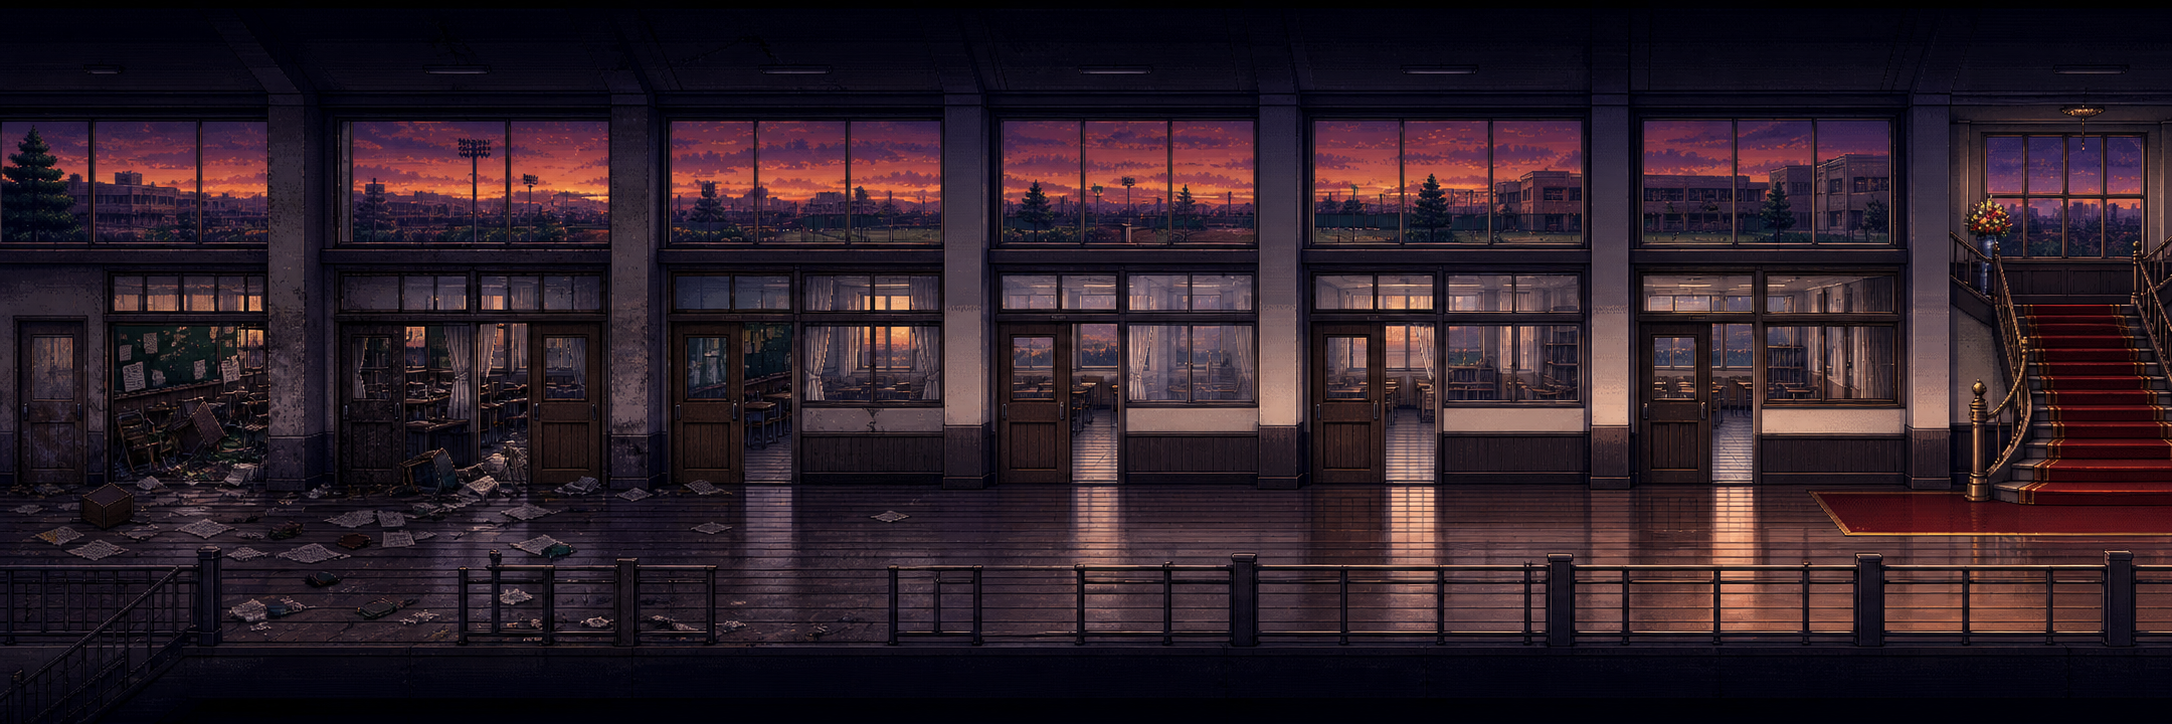
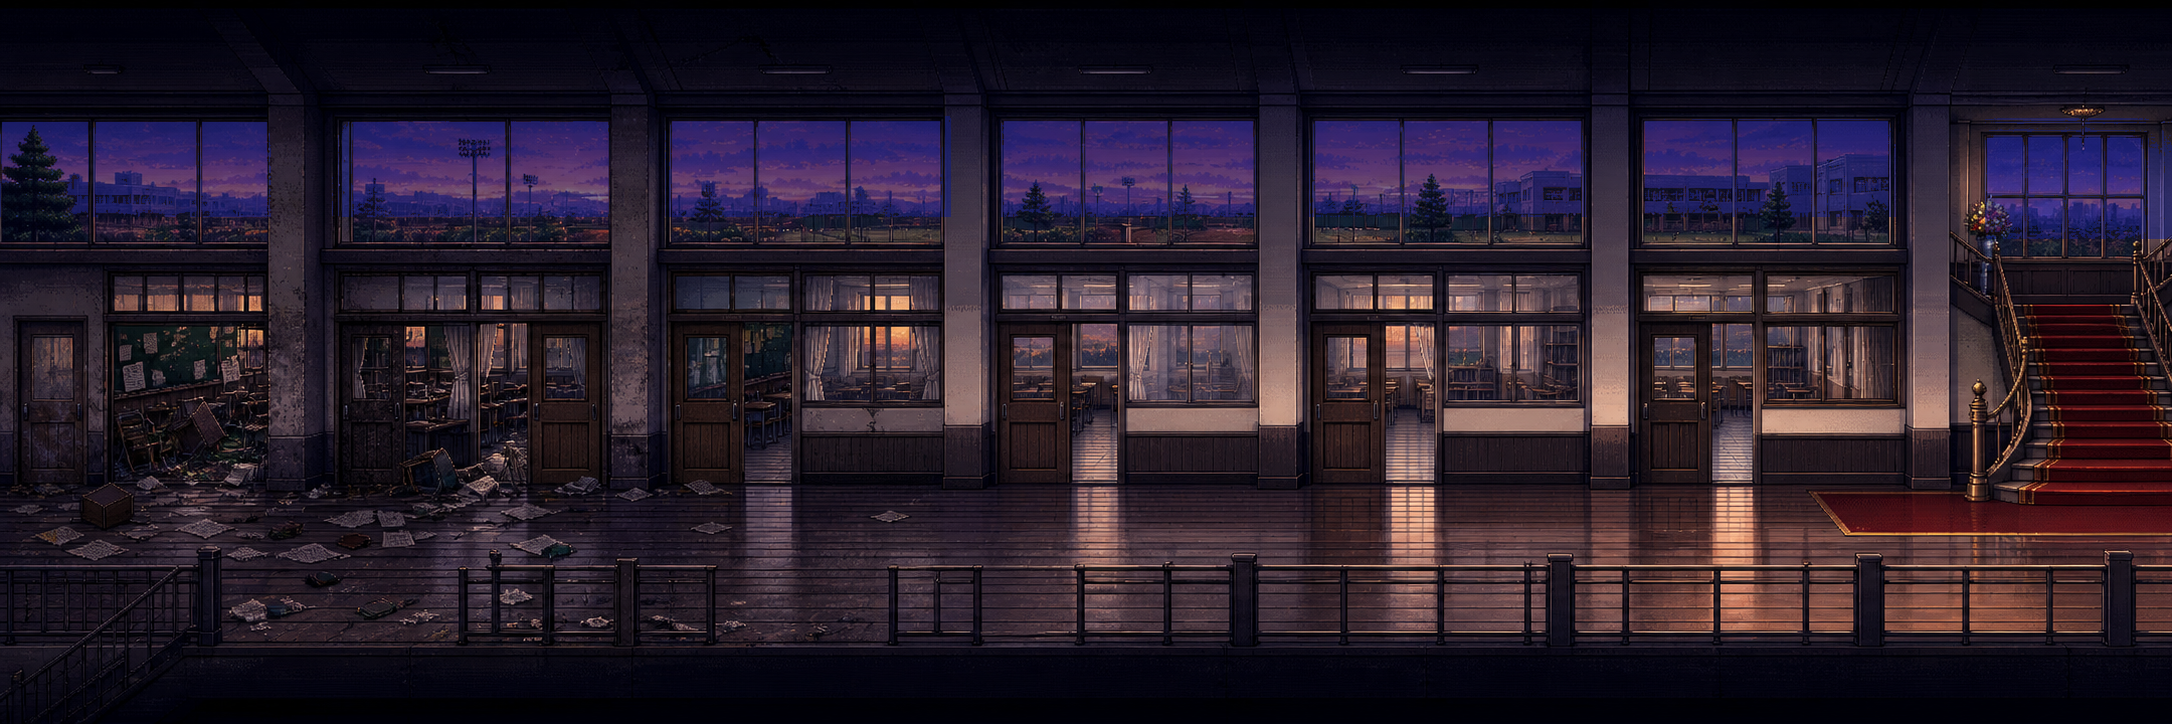
Refine stage two boss and background

Changed region(s): [[0.1542, 0.1519, 1.0, 0.3343], [0.0, 0.1519, 0.1234, 0.3039]]

diff --git a/game.js b/game.js
@@ -80,6 +80,7 @@
   const CHARGE_SECONDS = CONFIG.player.dash.chargeSeconds;
   const PLAYER_SPEED = CONFIG.player.moveSpeed;
   const DASH_SPEED = PLAYER_SPEED * CONFIG.player.dash.speedMultiplier;
+  const DASH_RETURN_SPEED = PLAYER_SPEED * CONFIG.player.dash.returnSpeedMultiplier;
   const DASH_DAMAGE = CONFIG.player.dash.damage;
   const DASH_COOLDOWN_SECONDS = CONFIG.player.dash.cooldownSeconds;
   const DRONE_LOOP_BASE_VOLUME = 0.026;
@@ -130,6 +131,8 @@
   const HUMANOID_CENTER_Y = Math.round((HUMANOID_MIN_Y + HUMANOID_MAX_Y) / 2);
   const STAGE_TWO_GROUND_MIN_Y = Math.round(HEIGHT * 0.76);
   const STAGE_TWO_GROUND_MAX_Y = Math.round(HEIGHT * 0.9);
+  const STAGE_TWO_UPPER_LANE_MIN_Y = Math.round(HEIGHT * 0.54);
+  const STAGE_TWO_UPPER_LANE_MAX_Y = Math.round(HEIGHT * 0.66);
   const BOSS_MIN_Y = HUMANOID_MIN_Y - BOSS_SPRITE_FOOT_OFFSET_Y;
   const BOSS_MAX_Y = HUMANOID_MAX_Y - BOSS_SPRITE_FOOT_OFFSET_Y;
   const BOSS_CENTER_Y = Math.round((BOSS_MIN_Y + BOSS_MAX_Y) / 2);
@@ -214,10 +217,11 @@
     boss: 1,
   };
   const BACKGROUND_PARALLAX_LAYERS = [
-    { top: 0, bottom: 0.58, strength: 0 },
+    { top: 0, bottom: 0.58, strength: 0.08 },
     { top: 0.34, bottom: 0.82, strength: 0.08 },
     { top: 0.72, bottom: 1, strength: 0.16 },
   ];
+  const STAGE_TWO_BACKGROUND_Y_OFFSET = Math.round(HEIGHT * 0.05);
   const START_PHASES = new Set([
     "wave1",
     "midBossDialogue",
@@ -373,7 +377,7 @@
     state.mode = "dialogue";
     const dialogueKey = getDialogueKey(kind);
     const bossPortrait = kind === "boss" || kind === "bossDefeated";
-    enemyPortrait.src = state.stage === 2
+    const portraitSrc = state.stage === 2
       ? kind === "midBoss"
         ? "assets/dialogue-ritsuko-midboss.png"
         : kind === "bossDefeated"
@@ -382,7 +386,8 @@
       : kind === "bossDefeated"
         ? "assets/dialogue-tsubame-defeated.png"
         : bossPortrait ? "assets/dialogue-tsubame-boss.png" : "assets/dialogue-tsubame-midboss.png";
-    enemyPortrait.alt = state.stage === 2 ? (bossPortrait ? "一文字 小夜" : "鬼塚 律子") : "朝比奈 つばめ";
+    const portraitAlt = state.stage === 2 ? (bossPortrait ? "一文字 小夜" : "鬼塚 律子") : "朝比奈 つばめ";
+    setEnemyPortrait(portraitSrc, portraitAlt);
     state.dialogueAutoSeconds = kind === "midBoss" ? MID_BOSS_DIALOGUE_AUTO_SECONDS : DIALOGUE_AUTO_SECONDS;
     state.dialogue = dialogues[dialogueKey].map((entry) => ({ ...entry, nextPhase }));
     state.dialogueIndex = 0;
@@ -397,6 +402,21 @@
       return `stage2${kind === "boss" ? "Boss" : "MidBoss"}`;
     }
     return kind;
+  }
+
+  function setEnemyPortrait(src, alt) {
+    enemyPortrait.alt = alt;
+    if (enemyPortrait.dataset.currentSrc === src) {
+      enemyPortrait.style.opacity = "1";
+      return;
+    }
+    enemyPortrait.dataset.currentSrc = src;
+    enemyPortrait.style.opacity = "0";
+    enemyPortrait.onload = () => {
+      enemyPortrait.style.opacity = "1";
+    };
+    enemyPortrait.src = src;
+    if (enemyPortrait.complete && enemyPortrait.naturalWidth > 0) enemyPortrait.style.opacity = "1";
   }
 
   function startBossDefeatedDialogue() {
@@ -523,6 +543,7 @@
       state.boss.dashState = "idle";
       state.boss.dashTrace = null;
       state.boss.idleShotTimer = CONFIG.bosses.sayo.idleShotIntervalSeconds;
+      state.boss.sayoDashCount = 0;
       state.message = "ボス 一文字小夜";
     } else {
       state.boss = null;
@@ -598,6 +619,35 @@
         : 0,
     });
     if (enemyType === "cleaningRobot") playShotSound("robotSpin");
+    state.nextEnemyId += 1;
+    if (state.stage === 2 && state.phase === "wave2" && enemyType === "disciplineRobot") {
+      spawnStageTwoUpperDisciplineRobot(spawnIndex);
+    }
+  }
+
+  function spawnStageTwoUpperDisciplineRobot(spawnIndex) {
+    const enemyType = "disciplineRobot";
+    const enemyConfig = ENEMY_SPRITE_CONFIG[enemyType];
+    const gameplay = getEnemyGameplay(enemyType);
+    const y = randomBetween(STAGE_TWO_UPPER_LANE_MIN_Y, STAGE_TWO_UPPER_LANE_MAX_Y);
+    state.enemies.push({
+      id: state.nextEnemyId,
+      x: WIDTH + 28,
+      y,
+      vx: getEnemySpawnSpeed(enemyType),
+      r: enemyConfig.radius,
+      hp: gameplay.hp,
+      fireTimer: getEnemyFirstShotTimer(gameplay),
+      type: enemyType,
+      wave: state.phase,
+      spawnIndex,
+      usedSpecial: false,
+      chargeState: "idle",
+      windupTime: 0,
+      groundY: y,
+      zigzagDirection: Math.random() < 0.5 ? -1 : 1,
+      motionTime: Math.random() * gameplay.jumpSeconds,
+    });
     state.nextEnemyId += 1;
   }
 
@@ -947,7 +997,7 @@
       const dx = player.dashOrigin.x - player.x;
       const dy = player.dashOrigin.y - player.y;
       const len = Math.hypot(dx, dy);
-      if (len <= PLAYER_SPEED * dt) {
+      if (len <= DASH_RETURN_SPEED * dt) {
         player.x = player.dashOrigin.x;
         player.y = player.dashOrigin.y;
         player.dashState = "none";
@@ -956,8 +1006,8 @@
         player.trail = [];
         return;
       }
-      player.x += (dx / len) * PLAYER_SPEED * dt;
-      player.y += (dy / len) * PLAYER_SPEED * dt;
+      player.x += (dx / len) * DASH_RETURN_SPEED * dt;
+      player.y += (dy / len) * DASH_RETURN_SPEED * dt;
     }
 
     for (const trail of player.trail) trail.life -= dt;
@@ -1345,7 +1395,9 @@
   }
 
   function updateSayoAttack(boss, dt) {
+    const wasChanged = boss.changed;
     boss.changed = boss.hp <= STAGE_TWO_PLAN.bossPhaseTarget;
+    if (boss.changed && !wasChanged) state.message = "小夜の攻撃が激しくなった！";
     if (!boss.changed) {
       boss.invincible = false;
       if (boss.fireTimer > 0) return;
@@ -1400,6 +1452,7 @@
     boss.dashState = "telegraph";
     boss.dashTelegraphTimer = CONFIG.bosses.sayo.dashTelegraphSeconds;
     boss.dashTraceTimer = 0;
+    boss.sayoDashCount = (boss.sayoDashCount || 0) + 1;
     boss.dashTrace = createSayoDashTrace(boss);
     boss.invincible = true;
     playShotSound("sayoDashClang");
@@ -1407,12 +1460,21 @@
 
   function createSayoDashTrace(boss) {
     const padding = CONFIG.bosses.sayo.dashTargetPadding;
-    const points = [
+    const targetSegments = Math.min(8, 2 + (boss.sayoDashCount || 1) * 2);
+    const routePoints = [
       { x: boss.x, y: boss.y },
-      { x: 0, y: HEIGHT * 0.5 },
+      getSayoDashLeftEdgeTarget(boss),
       { x: randomBetween(padding, WIDTH - padding), y: 0 },
       { x: randomBetween(padding, WIDTH - padding), y: HEIGHT },
+      { x: WIDTH, y: randomBetween(padding, HEIGHT - padding) },
+      { x: randomBetween(padding, WIDTH - padding), y: 0 },
+      { x: 0, y: randomBetween(padding, HEIGHT - padding) },
+      { x: randomBetween(padding, WIDTH - padding), y: HEIGHT },
       { x: boss.x, y: boss.y },
+    ];
+    const points = [
+      ...routePoints.slice(0, targetSegments),
+      routePoints[routePoints.length - 1],
     ];
     const lengths = [];
     let totalLength = 0;
@@ -1422,6 +1484,16 @@
       totalLength += length;
     }
     return { points, lengths, totalLength };
+  }
+
+  function getSayoDashLeftEdgeTarget(boss) {
+    const dx = state.player.x - boss.x;
+    if (Math.abs(dx) < 0.001) return { x: 0, y: clamp(state.player.y, 0, HEIGHT) };
+    const ratio = -boss.x / dx;
+    return {
+      x: 0,
+      y: clamp(boss.y + (state.player.y - boss.y) * ratio, 0, HEIGHT),
+    };
   }
 
   function getPointOnSayoDashTrace(trace, progress) {
@@ -1667,6 +1739,8 @@
     const sourceHeight = stageTwoBackground.naturalHeight;
     const sourceWidth = Math.min(stageTwoBackground.naturalWidth, sourceHeight * (WIDTH / HEIGHT));
     const stop = getStageTwoProgress();
+    ctx.fillStyle = "#070916";
+    pixelRect(0, 0, WIDTH, HEIGHT);
     for (const layer of BACKGROUND_PARALLAX_LAYERS) {
       drawStageTwoBackgroundLayer(sourceWidth, stop, layer);
     }
@@ -1677,8 +1751,8 @@
     const sourceTop = Math.round(sourceHeight * layer.top);
     const sourceBottom = Math.round(sourceHeight * layer.bottom);
     const sourceLayerHeight = Math.max(1, sourceBottom - sourceTop);
-    const destTop = Math.round(HEIGHT * layer.top);
-    const destBottom = Math.round(HEIGHT * layer.bottom);
+    const destTop = Math.round(HEIGHT * layer.top) + STAGE_TWO_BACKGROUND_Y_OFFSET;
+    const destBottom = Math.round(HEIGHT * layer.bottom) + STAGE_TWO_BACKGROUND_Y_OFFSET;
     const destLayerHeight = Math.max(1, destBottom - destTop);
     const sourceX = getStageTwoBackgroundSourceX(sourceWidth, stop, layer.strength);
     ctx.drawImage(

diff --git a/game-config.js b/game-config.js
@@ -26,6 +26,7 @@ window.YOKOSHOOT_CONFIG = {
     dash: {
       chargeSeconds: 1,
       speedMultiplier: 3,
+      returnSpeedMultiplier: 2,
       damage: 9,
       cooldownSeconds: 4,
     },
@@ -152,7 +153,7 @@ window.YOKOSHOOT_CONFIG = {
     sayo: {
       shockwaveIntervalSeconds: 0.72,
       dashIntervalSeconds: 3,
-      idleShotIntervalSeconds: 1,
+      idleShotIntervalSeconds: 0.5,
       dashTelegraphSeconds: 1,
       dashTraceSeconds: 0.5,
       dashTargetPadding: 80,

diff --git a/styles.css b/styles.css
@@ -353,6 +353,7 @@ h1 img {
   object-position: bottom center;
   filter: drop-shadow(0 18px 28px rgba(0, 0, 0, 0.58));
   transform: translateX(-50%);
+  transition: opacity 120ms ease;
 }
 
 .portrait span {